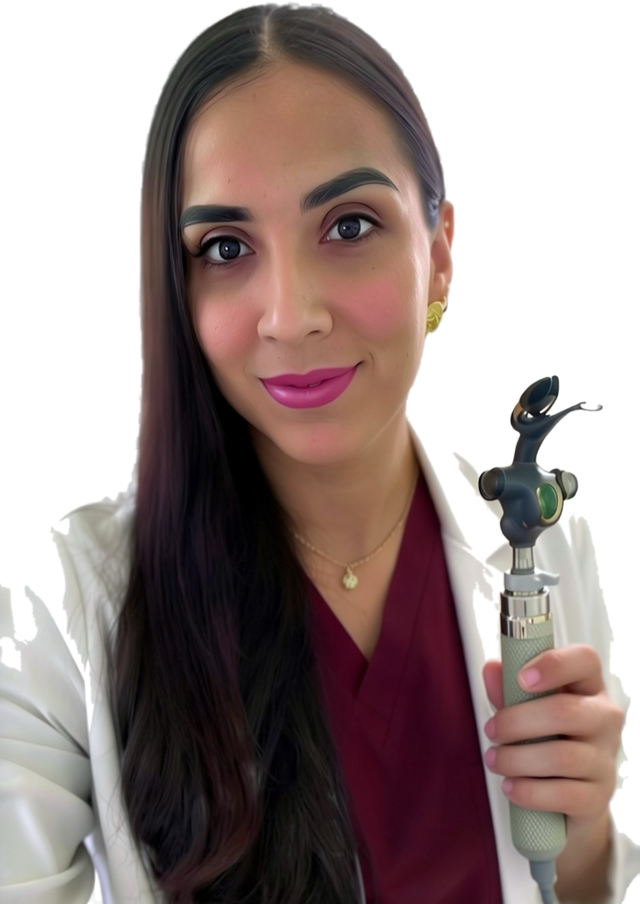
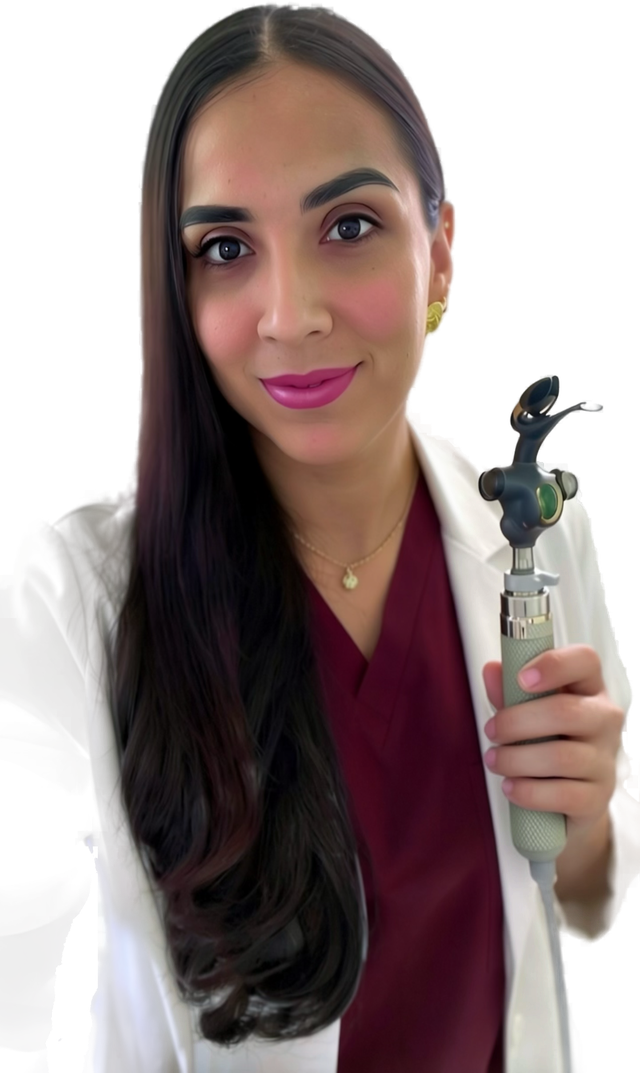
ML-based cutout (rembg/isnet): coat fully preserved; remove hero badges
Color-threshold extraction was eating the white coat; replaced with
person-segmentation model. Badge cards removed per client feedback —
their content remains in the trust strip.

diff --git a/en/index.html b/en/index.html
@@ -98,12 +98,10 @@
         </div>
       </div>
       <figure class="hero-figure">
-        <img src="../assets/img/dra-bianca.webp" width="1200" height="1695"
+        <img src="../assets/img/dra-bianca.webp" width="1200" height="2012"
              srcset="../assets/img/dra-bianca-sm.webp 640w, ../assets/img/dra-bianca.webp 1200w"
              sizes="(max-width: 960px) 88vw, 400px"
              alt="Dra. Bianca Rubí Flores Reyes, anesthesiologist" fetchpriority="high">
-        <div class="hero-badge badge-cert">Certified by the Consejo Mexicano de Anestesiología<small>Residency at UMAE No. 25 IMSS · UDEM</small></div>
-        <div class="hero-badge badge-loc"><span aria-hidden="true">📍</span> La Paz · Los Cabos · San José del Cabo<small>Serving all of Baja California Sur</small></div>
       </figure>
     </div>
   </section>

diff --git a/index.html b/index.html
@@ -106,12 +106,10 @@
         </div>
       </div>
       <figure class="hero-figure">
-        <img src="assets/img/dra-bianca.webp" width="1200" height="1695"
+        <img src="assets/img/dra-bianca.webp" width="1200" height="2012"
              srcset="assets/img/dra-bianca-sm.webp 640w, assets/img/dra-bianca.webp 1200w"
              sizes="(max-width: 960px) 88vw, 400px"
              alt="Dra. Bianca Rubí Flores Reyes, médico anestesióloga" fetchpriority="high">
-        <div class="hero-badge badge-cert">Aval del Consejo Mexicano de Anestesiología<small>Especialidad UMAE No. 25 IMSS · UDEM</small></div>
-        <div class="hero-badge badge-loc"><span aria-hidden="true">📍</span> La Paz · Los Cabos · San José del Cabo<small>Cobertura en Baja California Sur</small></div>
       </figure>
     </div>
   </section>
